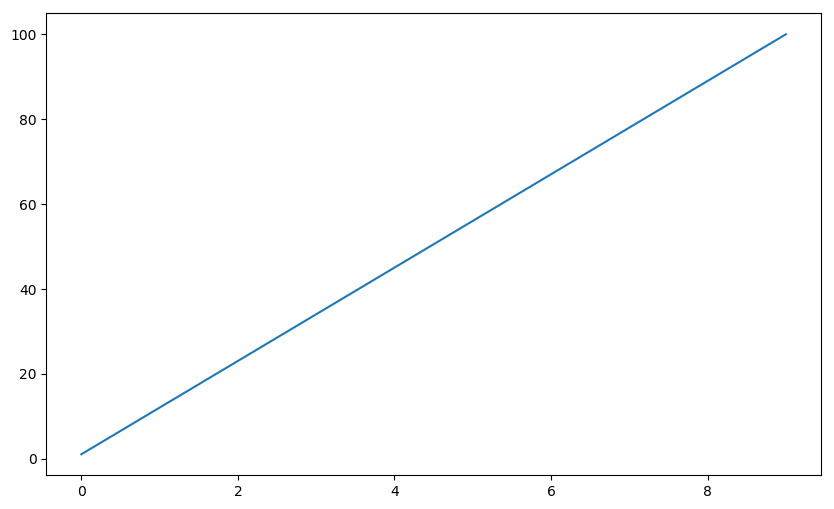
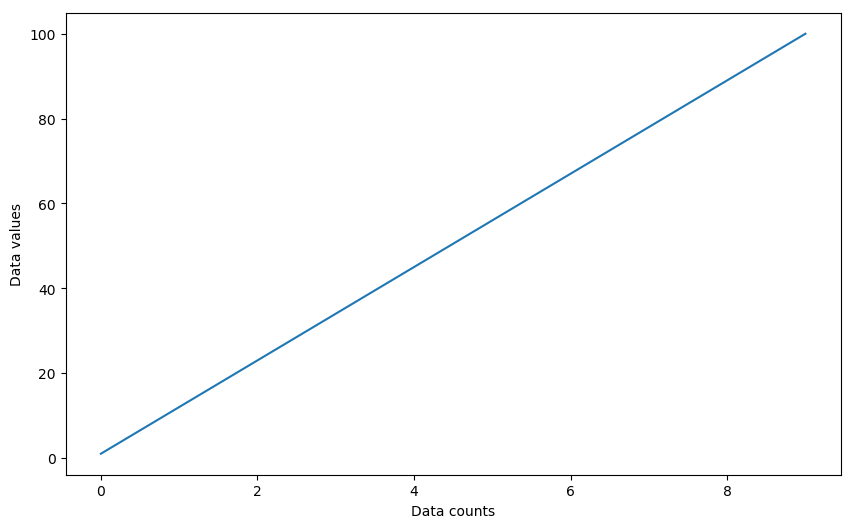
added the axis labels to the plots

diff --git a/testApp.py b/testApp.py
@@ -6,4 +6,6 @@ print(array)
 
 plt.figure(figsize=(10,6))
 plt.plot(array)
+plt.xlabel("Data counts")
+plt.ylabel("Data values")
 plt.savefig('testFigure.png',dpi=100,bbox_inches='tight')
